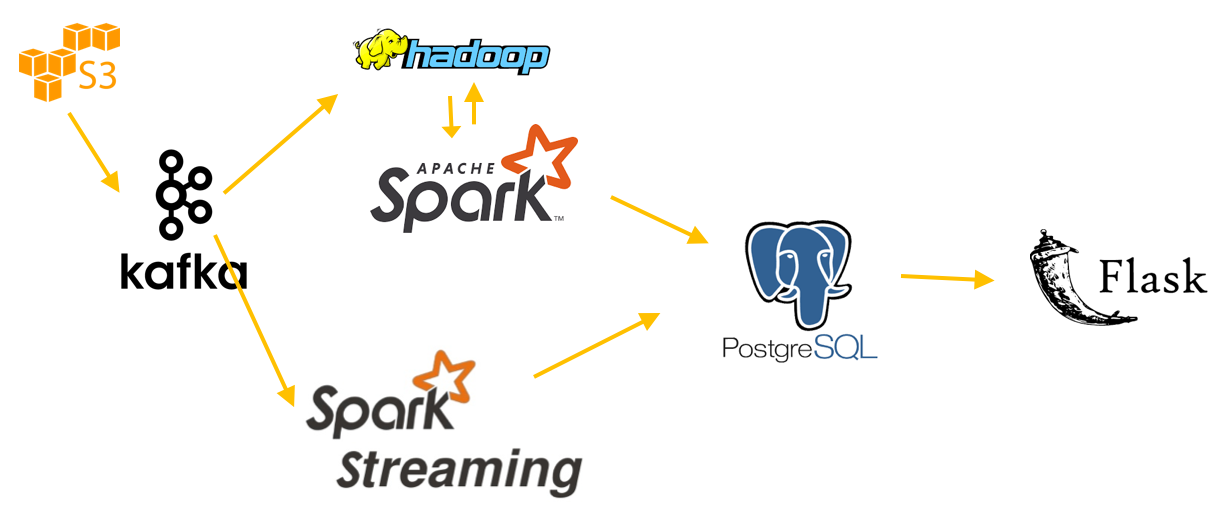
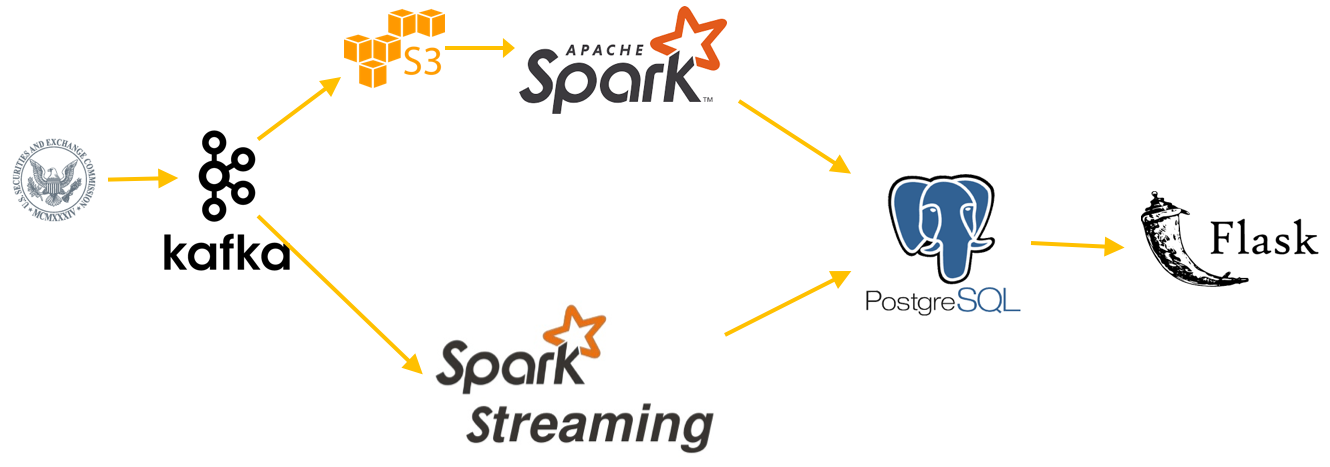
Modifies the project description mentioning the challenges.

diff --git a/README.md b/README.md
@@ -1,19 +1,20 @@
-# Days Towards the Election
-In this project, I am trying to process tweets to get an estimate for user rating of each candidate for presidential election over time as we get closer to the election day.
+# Getting Insight From SEC Log Files
+In this project, I am going to process the SEC access log files to extract the user interests and search engine interest in certain companies. 
+
+Public companies and other regulated companies submit quarterly and annual reports, as well as other periodic reports to U.S. Securities and Exchange Commission (SEC). SEC provide those document as public records for everybody. Also, SEC provide access log file for the request for those documents which includes request time and date, document name, size of document, etc.
 
 # Why we need this?
-- With the growth of people interactions online, it is good to have an understanding of people opinion about a potential election candidate using online data.
-- While using traditional polling is a good approach it may not cover all the demographic.
+- Based on the documents submitted to SEC and the requests for those documents we can gage how much interest are there for a company. 
+- This could be beneficial for anybody interested in stocks or any venture capital company to see if it is worth it pay attention to a company and consequently to invest in that company or not.
 
 # Size and rate of data
-- Data could be acquired from different sources including twitter, Facebook, blogger,...
-- Assuming 1000 per second twit with the hashtag #trump for example.
-Rate of data coming in 100/s * 140 Byte = 13.7 KB
-- Data Generation:
-            13.7KB * 3600 seconds * 24 hours = 1.1 GB per day 
-                                            or 35.5 GB per month
+- There are access log files dating back up to 2003 and at least in the recent years there about 2.5 GB of access log in csv format for each day.
+- This amount of day per day is equivalent to about 300 records per second.
 
-- The size of the data is about 26 GB daily or 20 relevant tweet per second.
+# What are the data engineering challenges?
+- One of the metrics that is interesting to look at is the unique number of requests for each document that can be used to gage users interest for a company. The challenge for unique requests is that if we try to remember all the uniques requesters it list can become large very fast and outgrow memory. I am thinking of using a statistical model like HyperLogLog for approximating the number of distinct element in a multiset.
+- There are lots of aggregation for a large amount of data, which can lead to considerable amount of shuffling in the map/reduce model. I was thinking I might be able to store some of the processes data in the database or S3 to reduce the amount of recomputation. 
+- Since I am planning to give a dashboard for user to be able to get result to arbitrary time windows. There could be considerable amount of redundant computation if the batch views are store only at smallest granuality scales, i.e. hours, and for example a user request for aggregation for a window of one year. I was thinking that I could store data at different granularities for example hour, day, week, month, year, so at the time of query I only require to query small amount of data from the database.
 
 # Pipeline
 ![Alt text](figs/Pipeline.png?raw=true "Pipeline")
